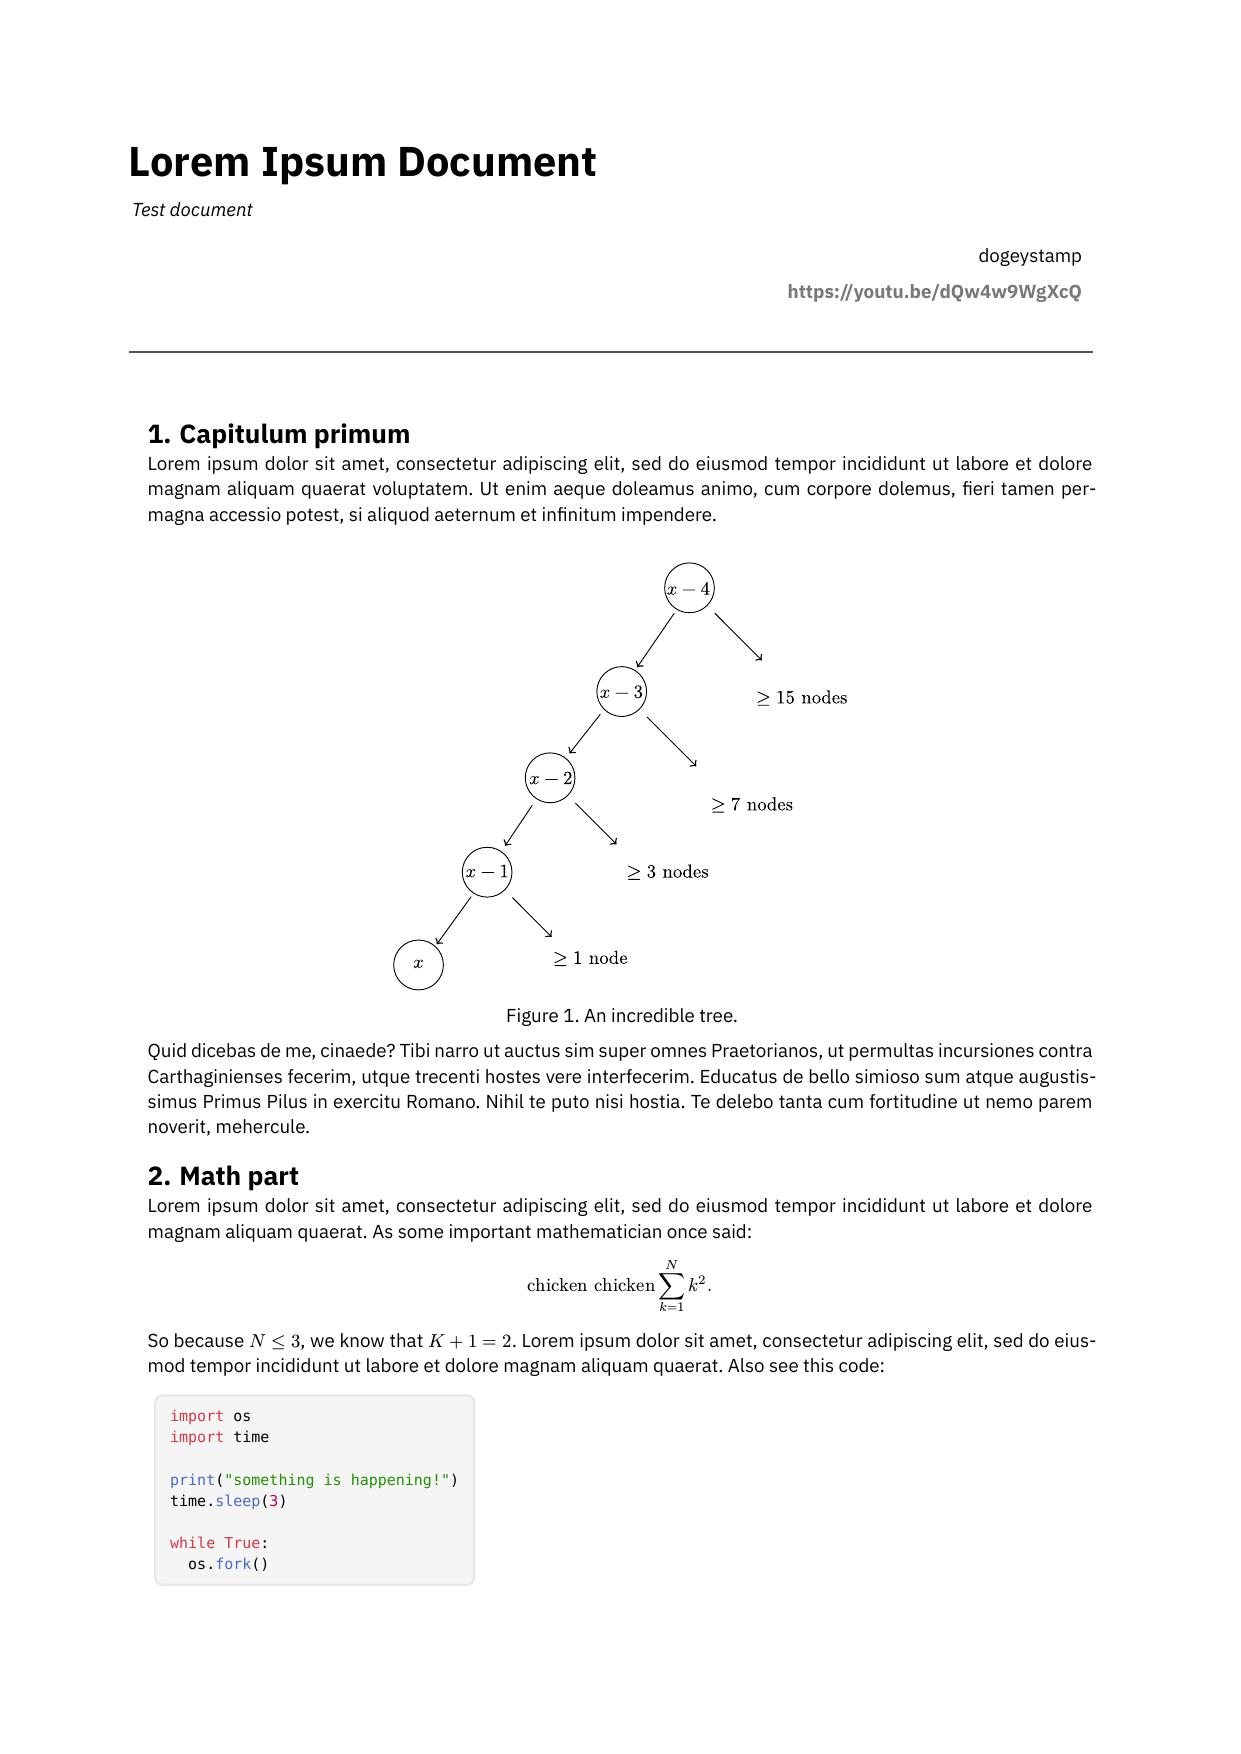
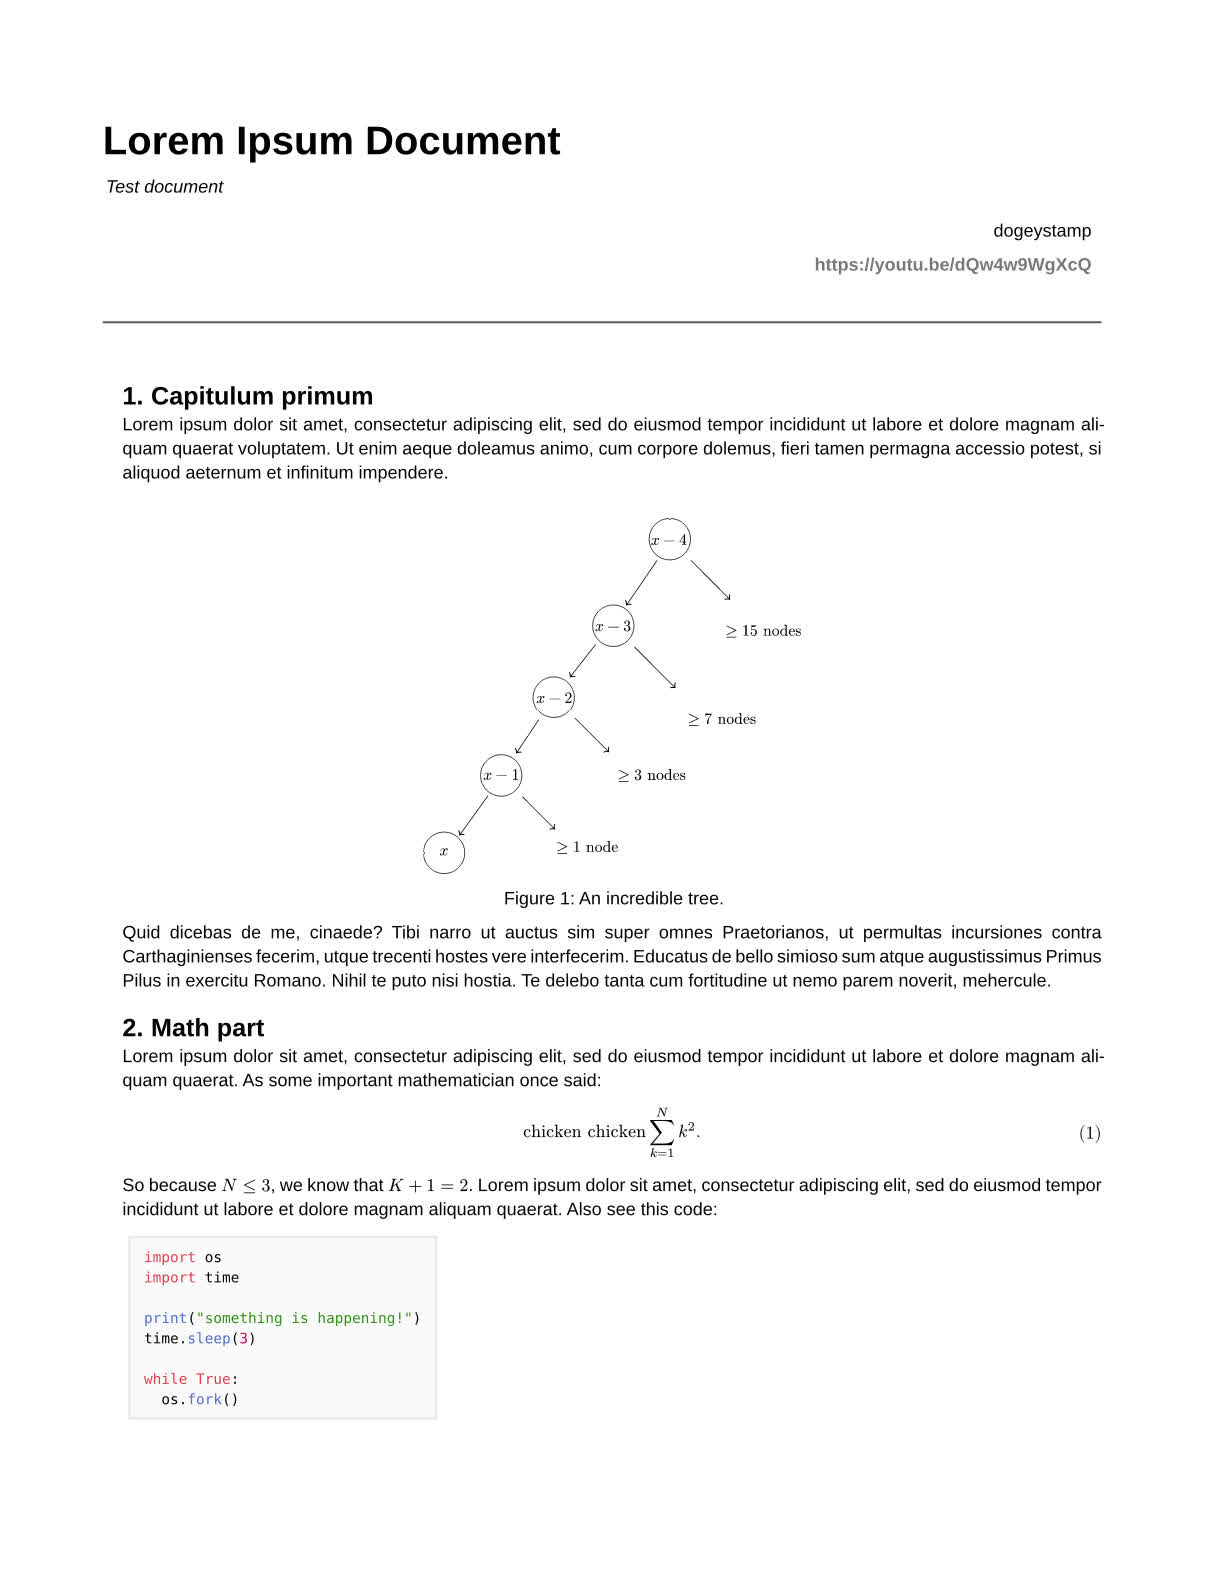
main.typ: use liberation sans font
it's like helvetica wow

diff --git a/README.md b/README.md
@@ -17,6 +17,10 @@ docs/
 
 ## Installation
 
+Install dependencies:
+
+- `ttf-liberation`
+
 Set up `docs/` as a git repo.
 
     mkdir docs
@@ -61,8 +65,6 @@ Example usage (this is test.typ in the above tree:)
 
 #source_code("test")
 ```
-
-Fonts should be included in Typst itself.
 
 Some settings are available in `main.typ`.
 
